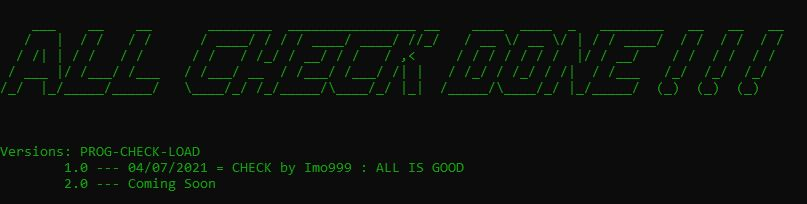
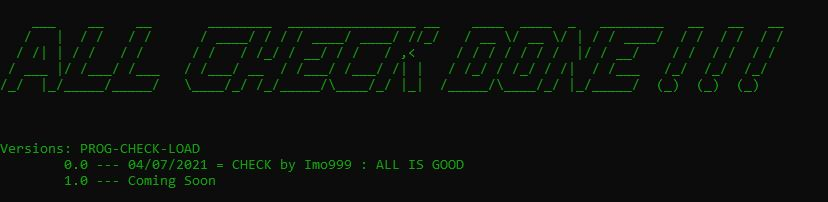
update

diff --git a/loading.js b/loading.js
@@ -123,8 +123,8 @@ const checkLoading = () => {
     console.log(loading.repeat(6000)) // répétition du fichier loading-pic.txt
     console.clear() // Clear affichage
     console.log(chalk.green(allcheckOk)) // Affichage répétition du fichier all-check-ok.txt
-    console.log(chalk.green('\nVersions: PROG-CHECK-LOAD \n\t1.0 --- 04/07/2021 = CHECK by Imo999 : ALL IS GOOD')) //Suivit de versionning 
-    console.log(chalk.green('\t2.0 --- Coming Soon\n')) // Additionnal 
+    console.log(chalk.green('\nVersions: PROG-CHECK-LOAD \n\t0.0 --- 04/07/2021 = CHECK by Imo999 : ALL IS GOOD')) //Suivit de versionning 
+    console.log(chalk.green('\t1.0 --- Coming Soon\n')) // Additionnal 
     //console.log(chalk.green('\t2.0 --- xx/xx/xxxx = CHECK by xxxx : Additionnal\n')) // Additionnal 
 
     // =====================================================

diff --git a/README.md b/README.md
@@ -15,7 +15,6 @@ This program allows you to check your folders and files before launching your pr
 [4] => RUN LOADING</br>
 [5] ARGUMENT RUN</br>
 
-
 # ![loadError](./pics-check/prog-check-load_error.jpg)
 
 
